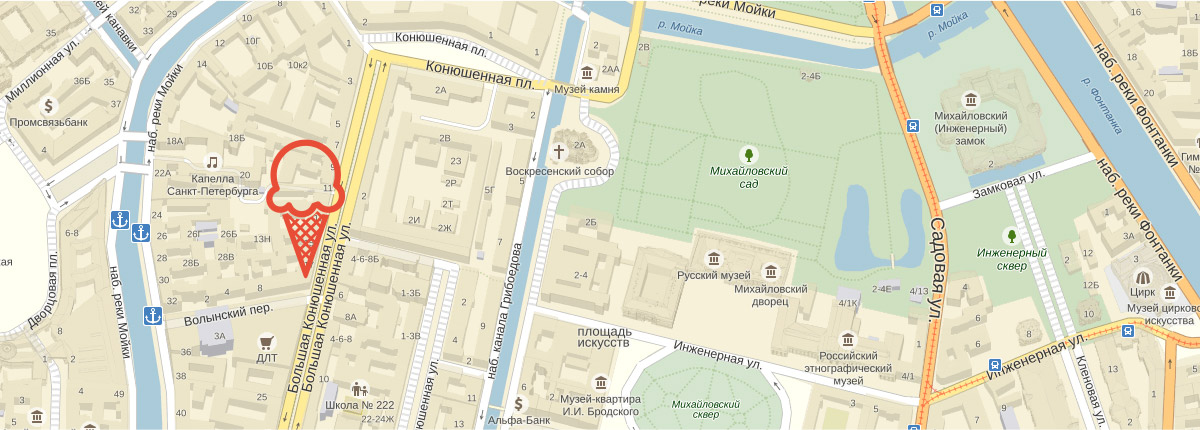
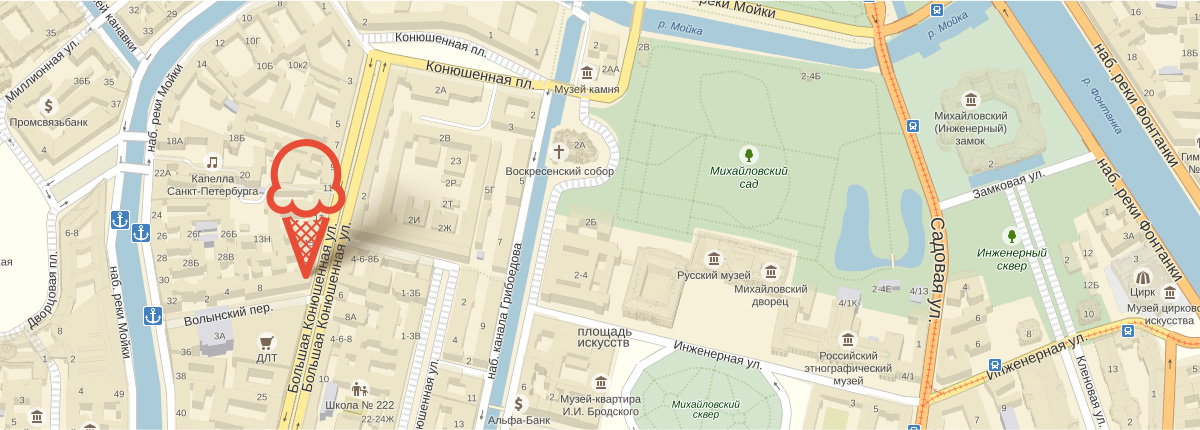
Карта на js и нестандартный пин

Changed region(s): [[0.2158, 0.4535, 0.37, 0.6651], [0.2467, 0.3326, 0.2775, 0.3628]]

diff --git a/js/map.js b/js/map.js
@@ -1,0 +1,49 @@
+ymaps.ready(function () {
+    var myMap = new ymaps.Map('map', {
+        // При инициализации карты обязательно нужно указать
+        // её центр и коэффициент масштабирования.
+        center: [59.939014, 30.326412], // Санкт-Петербург
+        zoom: 17
+    }, {
+        searchControlProvider: 'yandex#search'
+    }),
+
+    // Создаём макет содержимого.
+        MyIconContentLayout = ymaps.templateLayoutFactory.createClass(),
+
+        myPlacemark = new ymaps.Placemark([59.938631, 30.323055], {
+            hintContent: 'Вкусное мороженое здесь'
+        }, {
+            // Опции.
+            // Необходимо указать данный тип макета.
+            iconLayout: 'default#image',
+            // Своё изображение иконки метки.
+            iconImageHref: 'img/pin.svg',
+            // Размеры метки.
+            iconImageSize: [80, 140],
+            // Смещение левого верхнего угла иконки относительно
+            // её "ножки" (точки привязки).
+            iconImageOffset: [-40, -140]
+        }),
+
+        shadowPlacemark = new ymaps.Placemark([59.938631, 30.323055], {
+            hintContent: 'Тень от вкусного мороженого'
+        }, {
+            // Опции.
+            // Необходимо указать данный тип макета.
+            iconLayout: 'default#image',
+            // Своё изображение иконки метки.
+            iconImageHref: 'img/shadow.png',
+            // Размеры метки.
+            iconImageSize: [182, 110],
+            // Смещение левого верхнего угла иконки относительно
+            // её "ножки" (точки привязки).
+            iconImageOffset: [0, -110]
+        });
+
+    myMap.geoObjects
+        .add(myPlacemark)
+        .add(shadowPlacemark);
+});
+
+

diff --git a/index.html b/index.html
@@ -231,9 +231,8 @@
           </div>
         </div>
       </div>
-      <section class="map">
+      <section class="map" id="map">
         <h2 class="visually-hidden">Карта проезда</h2>
-        <iframe src="https://yandex.ru/map-widget/v1/-/CBUN4NF7lB" width="1200" height="430"></iframe>
         <div class="contacts">
           <h4 class="contacts__address">Адрес главного офиса<br> и офлайн магазина:</h4>
           <p><b>ул. Большая Конюшенная 19/8, Санкт-Петербург</b></p>
@@ -318,6 +317,8 @@
     </form>
     <button class="modal-close" type="button">Закрыть</button>
   </section>
+  <script src="https://api-maps.yandex.ru/2.1/?lang=ru_RU"></script>
+  <script src="js/map.js"></script>
   <script src="js/modalFeedback.js"></script>
 </body>
 

diff --git a/css/style.css b/css/style.css
@@ -1238,10 +1238,6 @@ li.shipment {
   background-repeat: no-repeat;
 }
 
-.map iframe {
-  border: 0;
-}
-
 .contacts {
   position: absolute;
   padding-top: 30px;
@@ -1253,6 +1249,7 @@ li.shipment {
   right: 27px;
   border-radius: 10px;
   background-color: #ffffff;
+  z-index: 2001;
 }
 
 .contacts h4,
